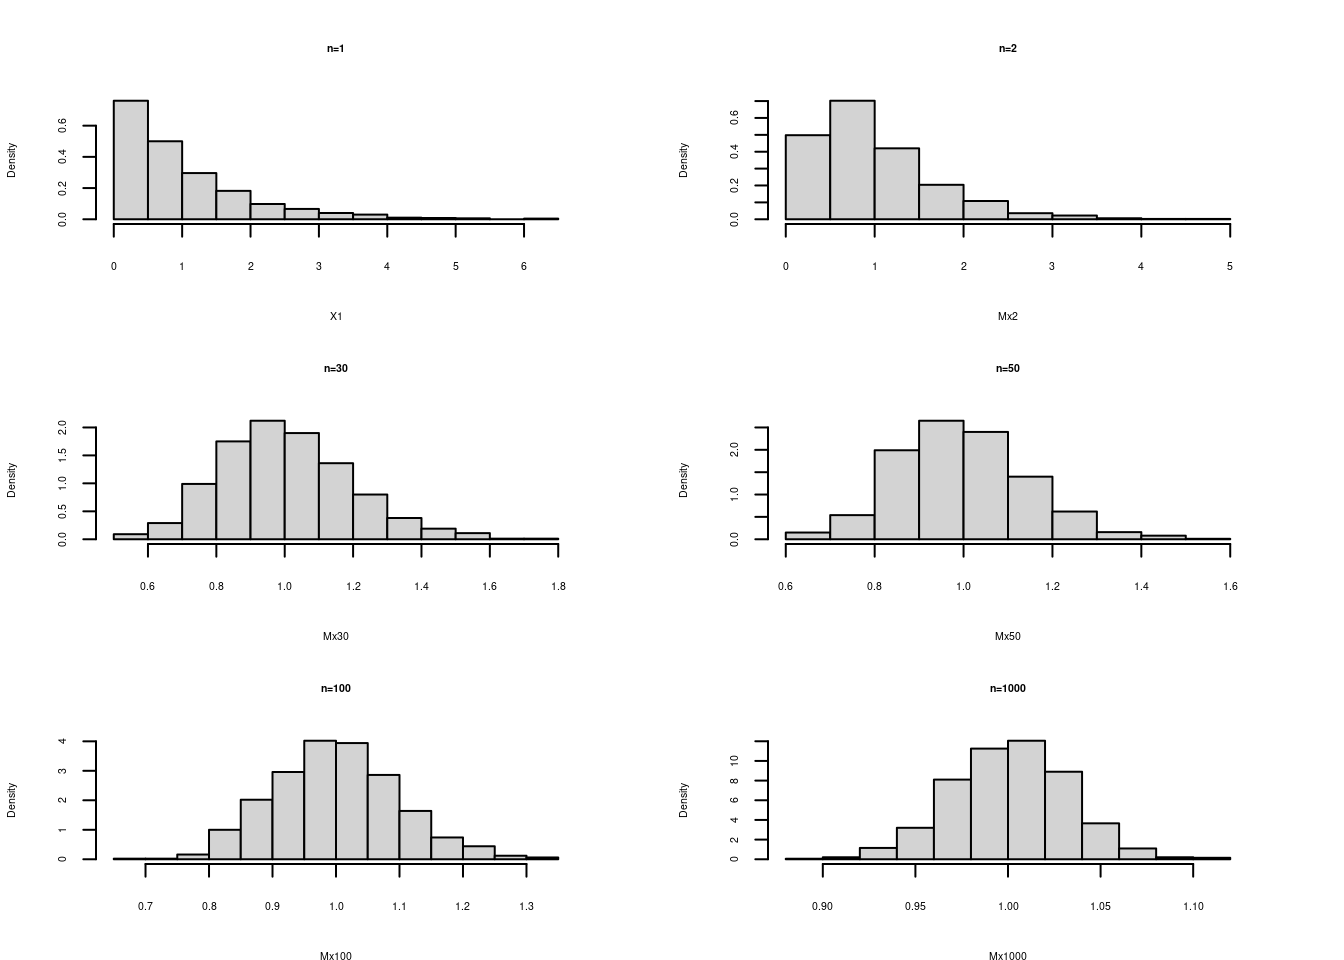
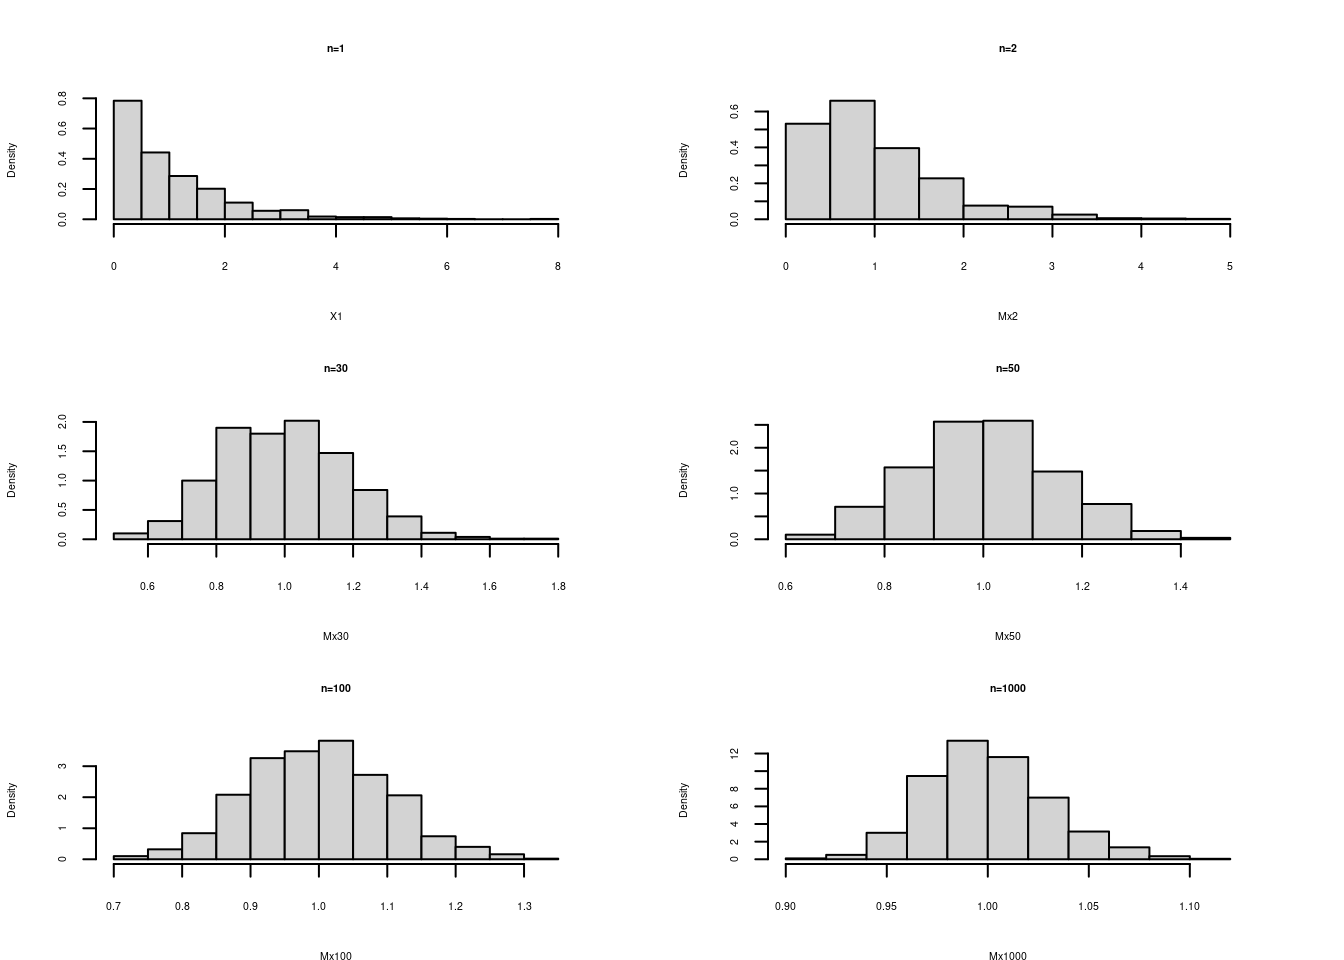
ajustes a guia 4.1

diff --git a/Guia401.html b/Guia401.html
@@ -1081,6 +1081,46 @@ V[X]&amp;=&amp; \mu^{2}-(\mu^{1})^{2}\\
 <p><br/><br/><br/><br/></p>
 </div>
 </div>
+<div id="propiedades-de-los-estimadores" class="section level2">
+<h2><strong>Propiedades de los estimadores</strong></h2>
+<p>Dentro de las principales propiedeades de los estimadores están:</p>
+<p><br/><br/></p>
+<div id="insesgadez" class="section level3">
+<h3><strong>Insesgadez</strong></h3>
+<p>Un estimador <span class="math inline">\(\widehat{\theta}\)</span> se considera insesgado si <span class="math inline">\(E[\widehat{\theta}] = \theta\)</span></p>
+<p><br/><br/></p>
+</div>
+<div id="eficiente" class="section level3">
+<h3><strong>Eficiente</strong></h3>
+<p>Un estimador <span class="math inline">\(\widehat{\theta_{1}}\)</span> se considera más eficiente que <span class="math inline">\(\widehat{\theta_{2}}\)</span> cuando:</p>
+<p><span class="math display">\[\widehat{\theta_{1}} &lt;\widehat{\theta_{2}}\]</span></p>
+<p><br/><br/></p>
+</div>
+<div id="consistente" class="section level3">
+<h3><strong>Consistente</strong></h3>
+<p>Cuando un estimador siendo sesgado, se convierte en un estimador sesgado cuando se aumenta el tamaño de la muestra se dice que este estimador es consistente</p>
+<p><br/><br/></p>
+<p>Con la siguiente figura se representa de manera figurativa lo que pueden ser las diferentes propiedades de los estimadores. En ella las figuras 3 y 4 representan estimadores insesgados , mientras que los gráficos 1 y 2 representan estimadores sesgados, pues se encuentran lejos del verdadero objetivo que es pegarle al centro de la diana, en este caso que representa al valor del parámetro.</p>
+<p>Por otro lado la gráfica 3 representa el estimador con las mejores condiciones, sesgado y de menor varianza, lo cual representa un estimador insesgado y eficiente.</p>
+<p><img src="img/estimador.png" style="width:50.0%" /></p>
+<p><br/><br/></p>
+<p><strong>Ejemplo</strong></p>
+<p>Para una muestra obtenida de una población exponencial con parámetro <span class="math inline">\(\beta\)</span> ( <span class="math inline">\(E[X]=\beta\)</span>, <span class="math inline">\(V[X]=\beta^{2}\)</span>). Examinar los siguientes estimadores para una muestra de <span class="math inline">\(n=4\)</span> (<span class="math inline">\(X_{1}\)</span>, <span class="math inline">\(X_{2}\)</span>, <span class="math inline">\(X_{3}\)</span>, <span class="math inline">\(X_{4}\)</span>)</p>
+<ul>
+<li><span class="math inline">\(\widehat{\theta}_{1} = \dfrac{1}{6}(X_{1}+X_{2}) \dfrac{1}{3}(X_{3}+X_{4})\)</span></li>
+</ul>
+<p><br/></p>
+<ul>
+<li><span class="math inline">\(\widehat{\theta}_{2} = \dfrac{1}{10}(X_{1}+2X_{2} + 3X_{3} + 4X_{4})\)</span></li>
+</ul>
+<p><br/></p>
+<ul>
+<li><span class="math inline">\(\widehat{\theta}_{3} = \dfrac{1}{4}(X_{1} + X_{2} + X_{3} + X_{4})\)</span></li>
+</ul>
+<p>Como se puede verificar <span class="math inline">\(\widehat{\theta}_{3}\)</span> es el mejor estimador de los tres, siendo insesgado y eficiente</p>
+<p><br/><br/><br/><br/></p>
+</div>
+</div>
 <div id="distribuciones-muestrales" class="section level2">
 <h2><strong>Distribuciones muestrales</strong></h2>
 <p>**Principales distribuciones muestrales:</p>
@@ -1459,10 +1499,10 @@ P(p&gt;0.82) &amp;=&amp; P\Bigg(\dfrac{\widehat{p}-p}{(p(1-p)/\sqrt{n}} &gt; \df
 <h2><strong>Algunos estimadores</strong></h2>
 <table>
 <colgroup>
-<col width="14%" />
+<col width="13%" />
 <col width="25%" />
-<col width="31%" />
-<col width="28%" />
+<col width="21%" />
+<col width="39%" />
 </colgroup>
 <thead>
 <tr class="header">
@@ -1500,14 +1540,14 @@ P(p&gt;0.82) &amp;=&amp; P\Bigg(\dfrac{\widehat{p}-p}{(p(1-p)/\sqrt{n}} &gt; \df
 <tr class="odd">
 <td align="center"><span class="math inline">\(\mu_{1}-\mu_{2}\)</span></td>
 <td align="center"><span class="math inline">\(\bar{x}_{1}-\bar{x}_{2}\)</span></td>
-<td align="center">$ <em>{1}-</em>{2} $</td>
-<td align="center">$ +$</td>
+<td align="center"><span class="math inline">\(\mu_{1}-\mu_{2}\)</span></td>
+<td align="center"><span class="math inline">\(\dfrac{\sigma^{2}_{1}}{n_{1}}+\dfrac{\sigma^{2}_{2}}{n_{2}}\)</span></td>
 </tr>
 <tr class="even">
 <td align="center"><span class="math inline">\(p_{1}-p_{2}\)</span></td>
 <td align="center"><span class="math inline">\(\widehat{p_{1}}-\widehat{p_{2}}\)</span></td>
 <td align="center"><span class="math inline">\(p_{1}-p_{2}\)</span></td>
-<td align="center">$ +$</td>
+<td align="center"><span class="math inline">\(\dfrac{p_{1}q_{1}}{n_{1}}+\dfrac{p_{2}q_{2}}{n_{2}}\)</span></td>
 </tr>
 </tbody>
 </table>
@@ -1522,7 +1562,80 @@ P(p&gt;0.82) &amp;=&amp; P\Bigg(\dfrac{\widehat{p}-p}{(p(1-p)/\sqrt{n}} &gt; \df
 <h3><strong>Verificación del Teorema central del límite </strong></h3>
 <p><img src="Guia401_files/figure-html/unnamed-chunk-3-1.png" width="672" /><img src="Guia401_files/figure-html/unnamed-chunk-3-2.png" width="672" /><img src="Guia401_files/figure-html/unnamed-chunk-3-3.png" width="672" /></p>
 <p>Se puede notar la transformación de la distribución de la media a una distribución normal a medida que el tamaño de muestra aumenta</p>
-<p><br/><br/></p>
+<p><br/><br/><br/><br/></p>
+</div>
+<div id="relación-de-las-distribiciones-muestrales-con-los-principales-estimadores-muestrales" class="section level3">
+<h3><strong>Relación de las distribiciones muestrales con los principales estimadores muestrales</strong></h3>
+<table>
+<colgroup>
+<col width="3%" />
+<col width="14%" />
+<col width="13%" />
+<col width="36%" />
+<col width="33%" />
+</colgroup>
+<thead>
+<tr class="header">
+<th align="center"></th>
+<th align="center">Parámetro</th>
+<th align="center">Estimador</th>
+<th align="center">distribución</th>
+<th align="center">supuesto</th>
+</tr>
+</thead>
+<tbody>
+<tr class="odd">
+<td align="center">1.</td>
+<td align="center"><span class="math inline">\(\mu\)</span></td>
+<td align="center"><span class="math inline">\(\bar{x}\)</span></td>
+<td align="center"><span class="math inline">\(norm\big(\mu, \dfrac{\sigma^{2}}{n}\big)\)</span></td>
+<td align="center"><span class="math inline">\(X \sim norm(\mu, \sigma^{2})\)</span></td>
+</tr>
+<tr class="even">
+<td align="center"></td>
+<td align="center"></td>
+<td align="center"></td>
+<td align="center"></td>
+<td align="center"><span class="math inline">\(\sigma^{2}\)</span> conocida</td>
+</tr>
+<tr class="odd">
+<td align="center">2.</td>
+<td align="center"><span class="math inline">\(\mu\)</span></td>
+<td align="center"><span class="math inline">\(\bar{x}\)</span></td>
+<td align="center"><span class="math inline">\(norm\big(\mu, \dfrac{\sigma^{2}}{n}\big)\)</span></td>
+<td align="center"><span class="math inline">\(X \sim norm(\mu, \sigma^{2})\)</span></td>
+</tr>
+<tr class="even">
+<td align="center"></td>
+<td align="center"></td>
+<td align="center"></td>
+<td align="center"></td>
+<td align="center"><span class="math inline">\(\sigma^{2}\)</span> desconocida</td>
+</tr>
+<tr class="odd">
+<td align="center">3.</td>
+<td align="center"><span class="math inline">\(\mu\)</span></td>
+<td align="center"><span class="math inline">\(\bar{x}\)</span></td>
+<td align="center"><span class="math inline">\(norm \big(\mu, \dfrac{\sigma^{2}}{n}\big)\)</span></td>
+<td align="center"><span class="math inline">\(X \sim\)</span> ? y <span class="math inline">\(n &gt;&gt;\)</span></td>
+</tr>
+<tr class="even">
+<td align="center">4.</td>
+<td align="center"><span class="math inline">\(p\)</span></td>
+<td align="center"><span class="math inline">\(\widehat{p}\)</span></td>
+<td align="center"><span class="math inline">\(norm \big(p, \dfrac{pq}{n}\big)\)</span></td>
+<td align="center"><span class="math inline">\(n &gt;&gt;\)</span></td>
+</tr>
+<tr class="odd">
+<td align="center">5.</td>
+<td align="center"><span class="math inline">\(\sigma^{2}\)</span></td>
+<td align="center"><span class="math inline">\(S^{2}\)</span></td>
+<td align="center"><span class="math inline">\(\dfrac{(n-1)S^{2}}{\sigma^{2}} \sim \chi^{2}_{v:n-1}\)</span></td>
+<td align="center"><span class="math inline">\(X \sim norm(\mu, \sigma^{2})\)</span></td>
+</tr>
+</tbody>
+</table>
+<p><br/><br/><br/><br/></p>
 </div>
 </div>
 <div id="video" class="section level2">
